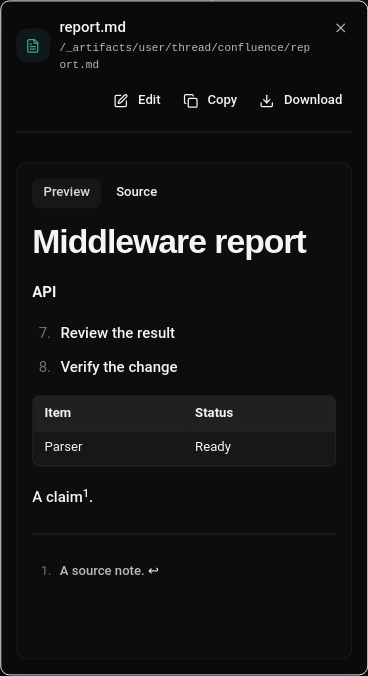
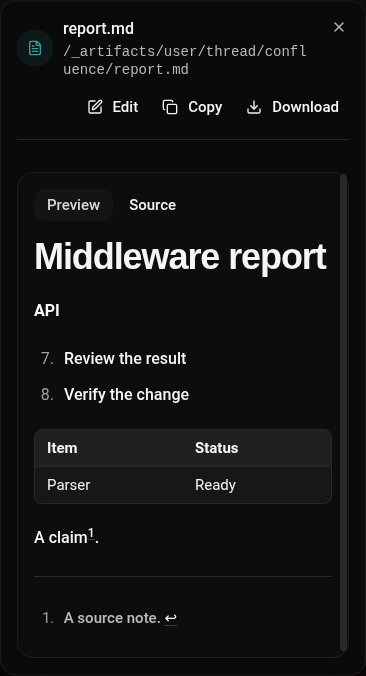
fix(chat): fit prose tables, unify link style, simplify subagent viewer

diff --git a/src/app/components/SubAgentRun.tsx b/src/app/components/SubAgentRun.tsx
@@ -48,17 +48,16 @@ export const SubAgentRun = memo(function SubAgentRun({
   const fullscreen = view === "fullscreen";
   const name = subAgent.subAgentName;
 
-  function openView(next: SubAgentView, button: HTMLButtonElement) {
-    opener.current = button;
-    setView(next);
-  }
-
   let status = subAgent.status;
   if (status === "pending" || status === "waiting") {
     if (execution?.status === "complete") status = "completed";
     if (execution?.status === "error") status = "error";
   }
   const running = status === "pending" || status === "active";
+  const indicatorAgent = useMemo(
+    () => (status === subAgent.status ? subAgent : { ...subAgent, status }),
+    [subAgent, status]
+  );
   const rows = useProcessedMessages(
     execution?.messages ?? EMPTY_MESSAGES,
     status === "waiting",
@@ -72,7 +71,9 @@ export const SubAgentRun = memo(function SubAgentRun({
     () => (result ? readableToolResult("task", result) : null),
     [result]
   );
-  const recentCalls = rows.findLast((row) => row.toolCalls.length)?.toolCalls;
+  const recentCalls = running
+    ? rows.findLast((row) => row.toolCalls.length)?.toolCalls
+    : undefined;
   const currentTools =
     recentCalls &&
     [...new Set(recentCalls.map((call) => call.name))].join(", ");
@@ -85,7 +86,7 @@ export const SubAgentRun = memo(function SubAgentRun({
         </h4>
         <MarkdownContent content={extractSubAgentContent(subAgent.input)} />
       </div>
-      {rows.map(({ message, toolCalls, stableKey }) => {
+      {rows.map(({ message, toolCalls, stableKey }, index) => {
         const text =
           message.type === "ai" ? extractStringFromMessageContent(message) : "";
         const progress = text.trim() !== resultText ? text : "";
@@ -99,6 +100,7 @@ export const SubAgentRun = memo(function SubAgentRun({
               <MarkdownContent
                 content={progress}
                 files={files}
+                isStreaming={running && index === rows.length - 1}
               />
             )}
             {toolCalls.map((toolCall) => (
@@ -147,7 +149,7 @@ export const SubAgentRun = memo(function SubAgentRun({
       >
         <div className="flex min-w-0 items-center pr-1">
           <SubAgentIndicator
-            subAgent={{ ...subAgent, status }}
+            subAgent={indicatorAgent}
             currentTools={currentTools}
             onClick={() => setExpanded((previous) => !previous)}
             isExpanded={expanded}
@@ -160,21 +162,12 @@ export const SubAgentRun = memo(function SubAgentRun({
             aria-label={`Enlarge ${name}`}
             aria-haspopup="dialog"
             title="Enlarge"
-            onClick={(event) => openView("enlarged", event.currentTarget)}
+            onClick={(event) => {
+              opener.current = event.currentTarget;
+              setView("enlarged");
+            }}
           >
             <Expand aria-hidden="true" />
-          </Button>
-          <Button
-            type="button"
-            variant="ghost"
-            size="icon"
-            className="text-muted-foreground size-touch"
-            aria-label={`Full screen ${name}`}
-            aria-haspopup="dialog"
-            title="Full screen"
-            onClick={(event) => openView("fullscreen", event.currentTarget)}
-          >
-            <Maximize aria-hidden="true" />
           </Button>
         </div>
         {expanded && view === null && (
@@ -245,7 +238,7 @@ export const SubAgentRun = memo(function SubAgentRun({
             role="region"
             aria-label="Subagent activity"
             tabIndex={0}
-            className="focus-visible:ring-ring min-h-0 flex-1 overflow-x-hidden overflow-y-auto overscroll-contain focus-visible:ring-2 focus-visible:outline-none focus-visible:ring-inset"
+            className="focus-visible:ring-ring min-h-0 flex-1 overflow-x-hidden overflow-y-auto overscroll-contain focus-visible:ring-2 focus-visible:outline-none focus-visible:ring-inset [&_li]:max-w-[80ch] [&_p:not(:has([role=table]))]:max-w-[80ch]"
           >
             {activity}
           </div>

diff --git a/src/app/components/MarkdownRenderer.tsx b/src/app/components/MarkdownRenderer.tsx
@@ -447,7 +447,7 @@ const COMPONENTS: Components = {
         href={safeHref}
         target={isInDocument ? undefined : "_blank"}
         rel={isInDocument ? undefined : "noopener noreferrer"}
-        className="text-primary no-underline hover:underline"
+        className={LINK_CLASS}
       >
         <MarkdownLinkContext.Provider value={true}>
           {children}
@@ -541,13 +541,12 @@ const COMPONENTS: Components = {
             those back in for descendants of the table. */}
         <table
           className={
-            "my-0 w-max min-w-full border-collapse text-sm " +
+            "my-0 w-full border-collapse text-sm " +
             "[&_strong]:font-semibold [&_strong]:text-current " +
             "[&_em]:text-current [&_em]:italic " +
             "[&_code]:border-border/60 [&_code]:rounded-sm [&_code]:border " +
             "[&_code]:bg-background [&_code]:px-1 [&_code]:py-0.5 " +
-            "[&_code]:font-mono [&_code]:text-[0.95em] [&_code]:font-medium " +
-            "[&_a]:text-primary [&_a:hover]:underline"
+            "[&_code]:font-mono [&_code]:text-[0.95em] [&_code]:font-medium"
           }
         >
           {children}
@@ -574,7 +573,7 @@ const COMPONENTS: Components = {
     return (
       <th
         style={style}
-        className="border-border max-w-[min(40rem,75vw)] border-b px-3 py-2 font-semibold wrap-anywhere"
+        className="border-border max-w-[40rem] min-w-32 border-b px-3 py-2 font-semibold wrap-anywhere"
       >
         {children}
       </th>
@@ -584,7 +583,7 @@ const COMPONENTS: Components = {
     return (
       <td
         style={style}
-        className="max-w-[min(40rem,75vw)] px-3 py-2 align-top wrap-anywhere [&_p]:mb-1 [&_p:last-child]:mb-0"
+        className="max-w-[40rem] min-w-32 px-3 py-2 align-top wrap-anywhere [&_p]:mb-1 [&_p:last-child]:mb-0"
       >
         {children}
       </td>
@@ -643,7 +642,7 @@ function ArtifactDownload({
         type="button"
         disabled={!available}
         aria-label={`Download ${filename}`}
-        className="text-primary focus-visible:ring-primary disabled:text-muted-foreground underline-offset-2 hover:underline focus-visible:ring-2 focus-visible:outline-none"
+        className={LINK_CLASS}
         onClick={() => {
           try {
             saveBlob(
@@ -683,8 +682,9 @@ function ArtifactDownload({
   );
 }
 
-const ARTIFACT_BUTTON_CLASS =
-  "text-primary underline-offset-2 hover:underline focus-visible:outline-none focus-visible:ring-2 focus-visible:ring-primary disabled:text-muted-foreground";
+// Links keep a quiet underline: the primary hue alone is too close to body text.
+const LINK_CLASS =
+  "text-primary decoration-primary/40 underline underline-offset-2 hover:decoration-current focus-visible:outline-none focus-visible:ring-2 focus-visible:ring-primary disabled:text-muted-foreground disabled:no-underline";
 
 /**
  * First sheet of a spreadsheet, 8 × 8, under its link. It parses only once
@@ -736,7 +736,7 @@ function InlineSpreadsheetPreview({
             type="button"
             aria-label={`Open full ${filename}`}
             onClick={() => opener.open(file.path)}
-            className={cn(ARTIFACT_BUTTON_CLASS, "text-xs")}
+            className={cn(LINK_CLASS, "text-xs")}
           >
             Open full
           </button>
@@ -787,7 +787,7 @@ function ArtifactOpen({
         type="button"
         disabled={!available}
         aria-label={`Open ${filename}`}
-        className={ARTIFACT_BUTTON_CLASS}
+        className={LINK_CLASS}
         onClick={() => opener.open(path)}
       >
         <MarkdownLinkContext.Provider value={true}>
